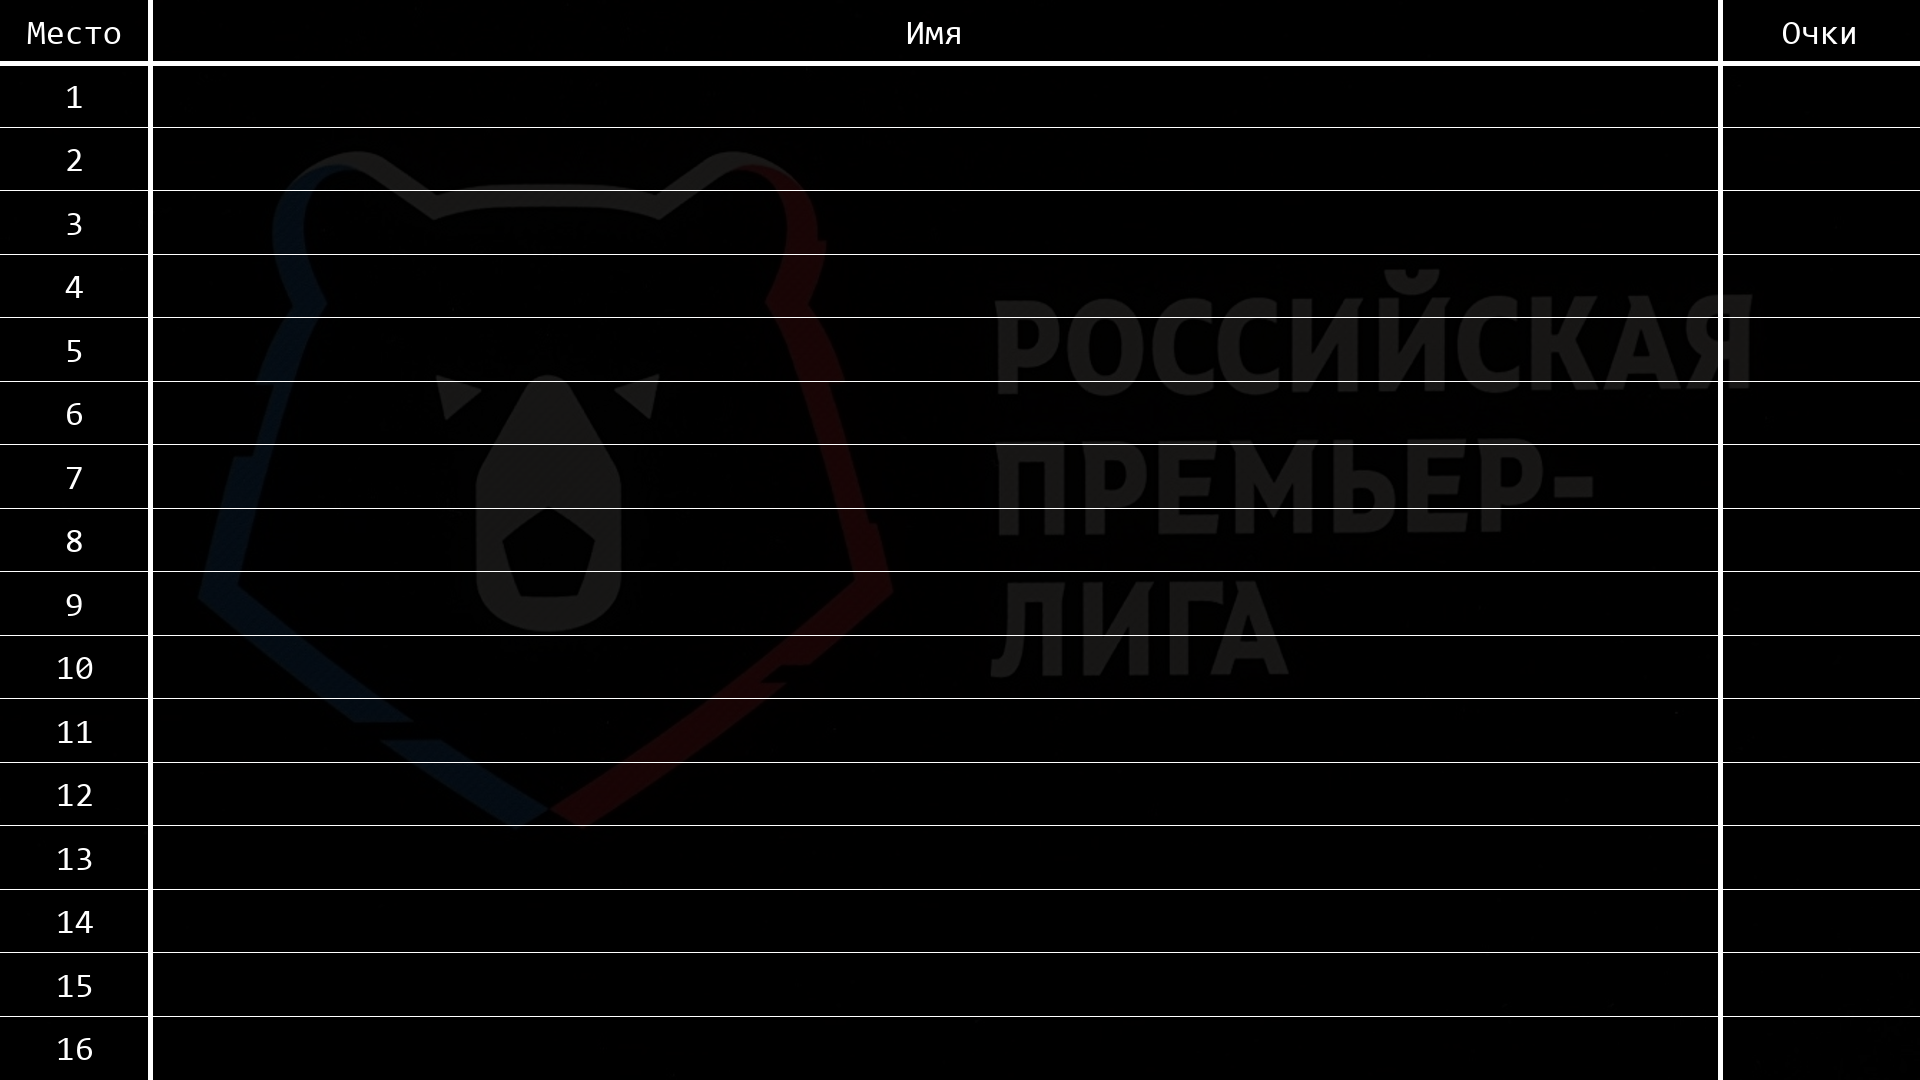
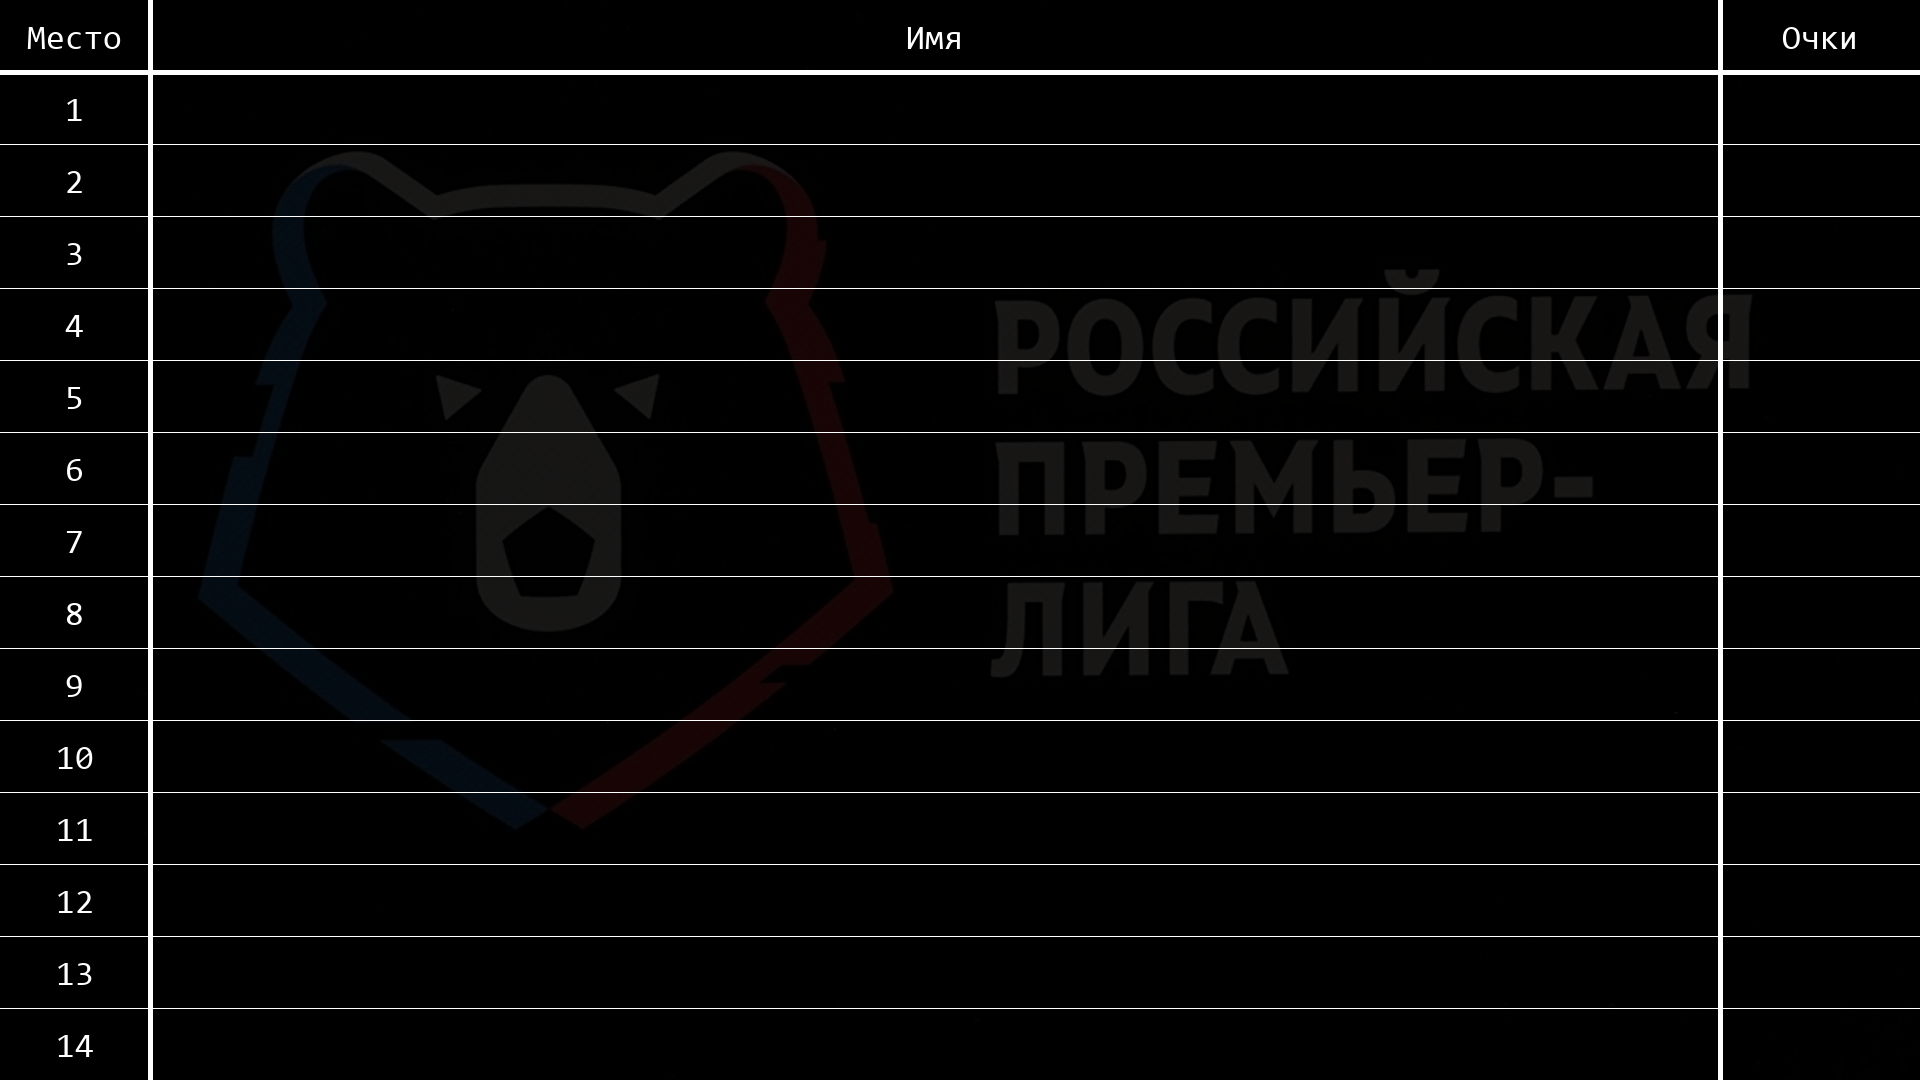
fix number of player

diff --git a/config_data/config.py b/config_data/config.py
@@ -16,7 +16,7 @@ ADMIN_ID = os.getenv("ADMIN_ID")
 
 NUMBER_OF_TOUR = 18
 SUM_COLUMN = 3
-NUMBER_OF_PLAYERS = 16
+NUMBER_OF_PLAYERS = 14
 COUNT_MATCHES_IN_TOUR = 8
 TOUR1_COLUMN = 4
 NICKNAME_COLUMN = 0 
